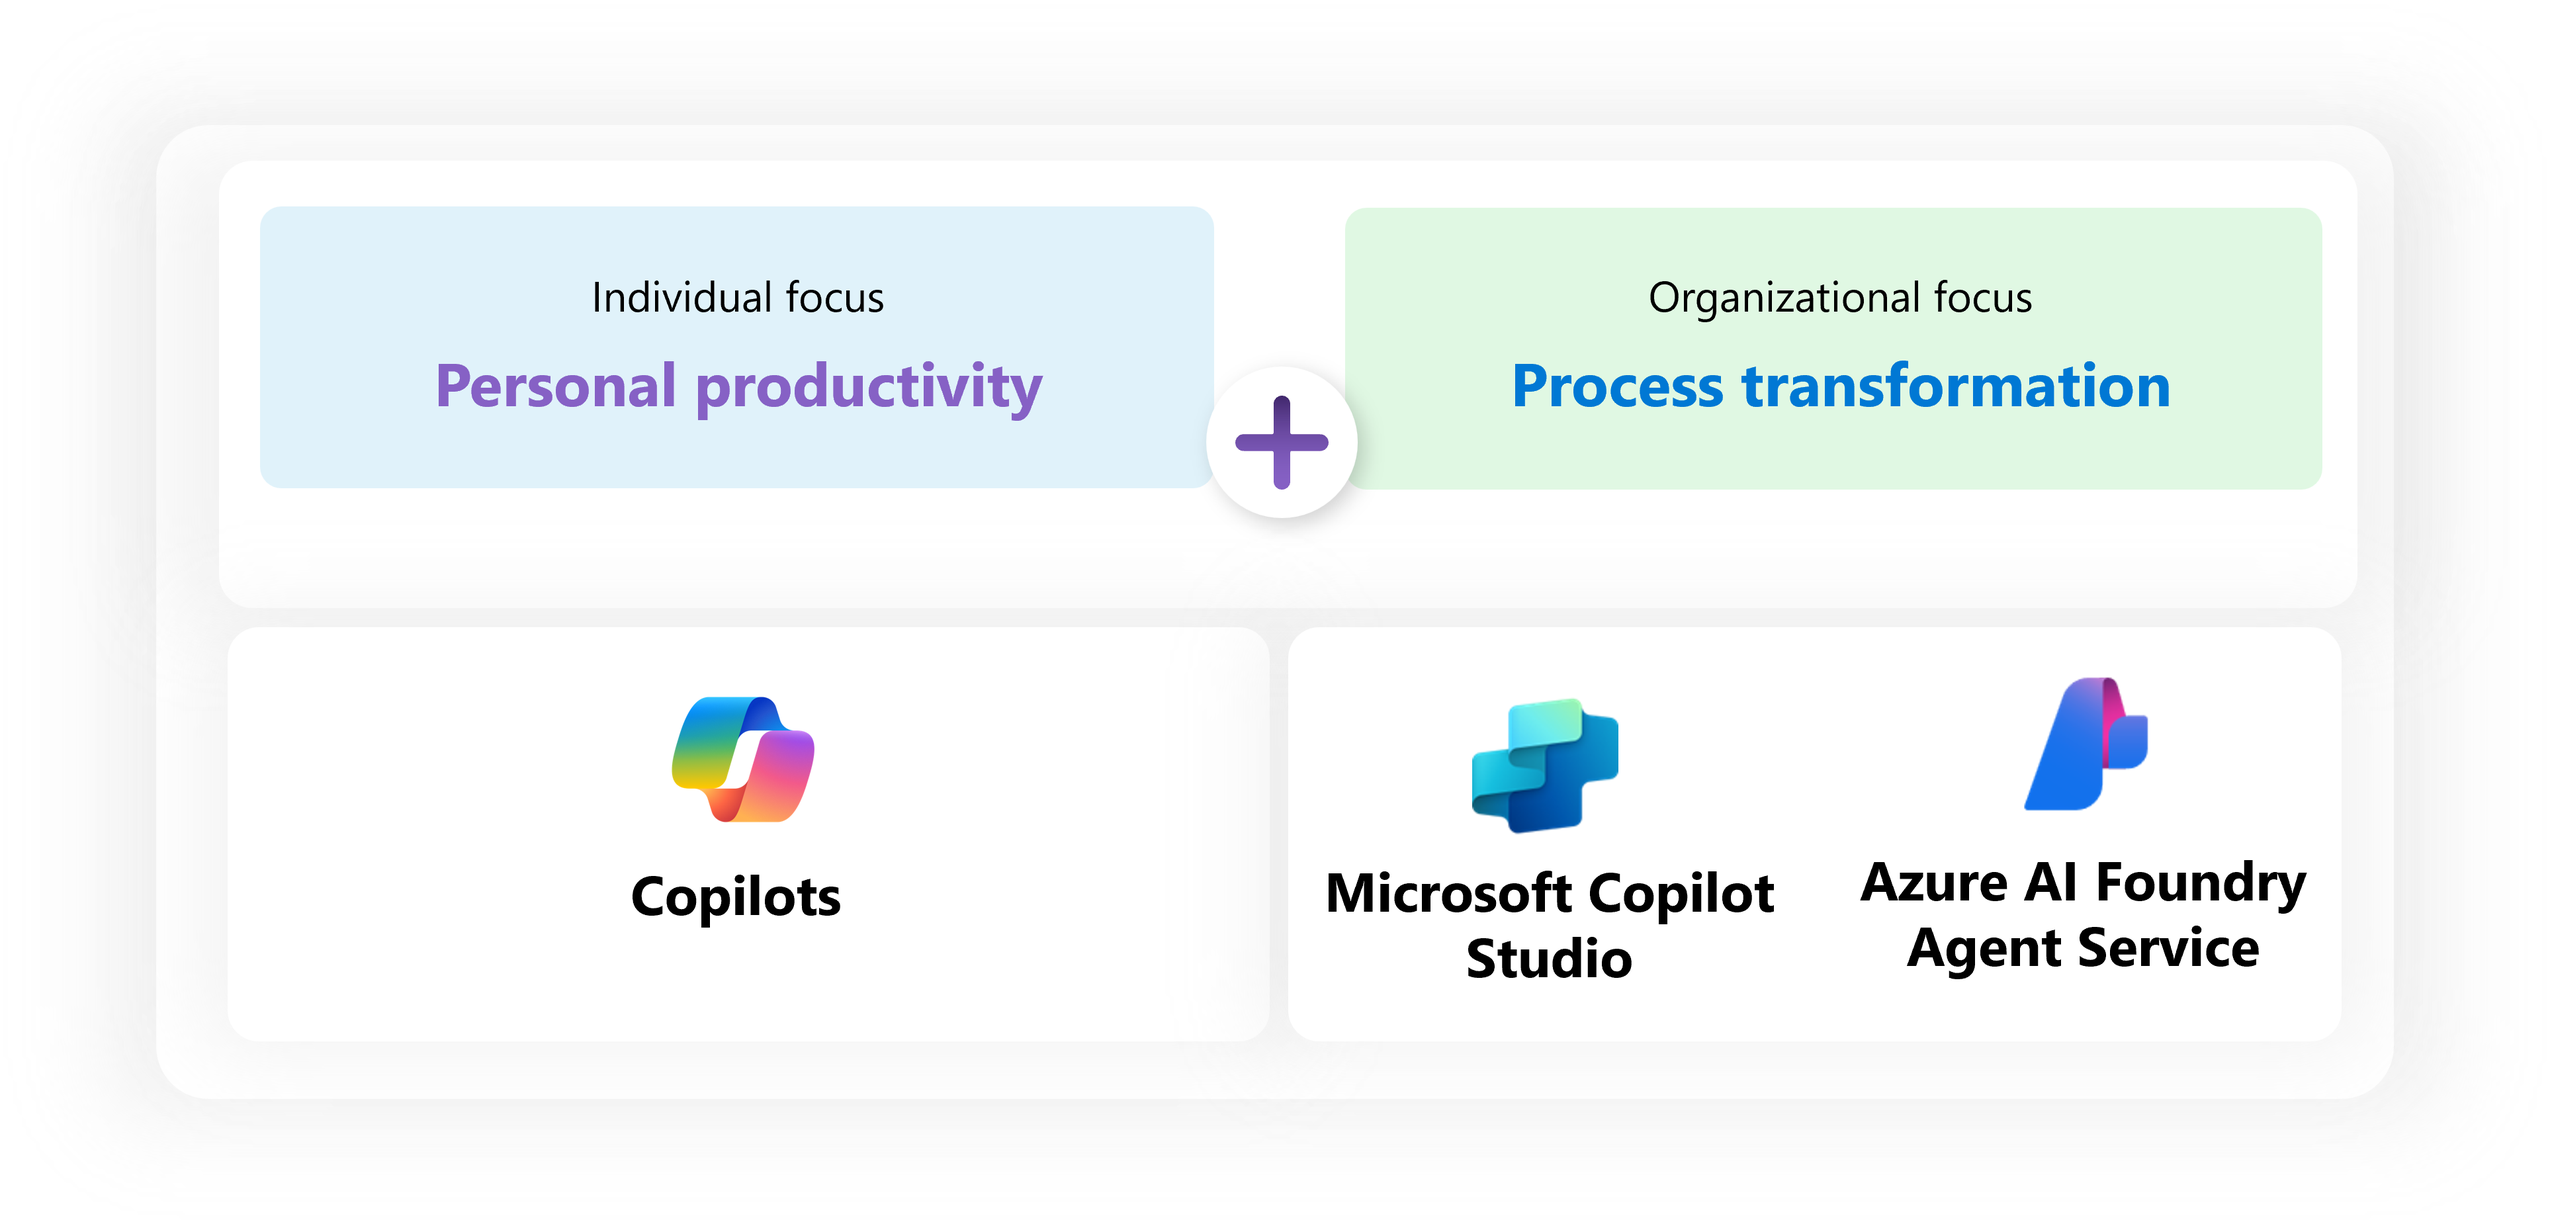
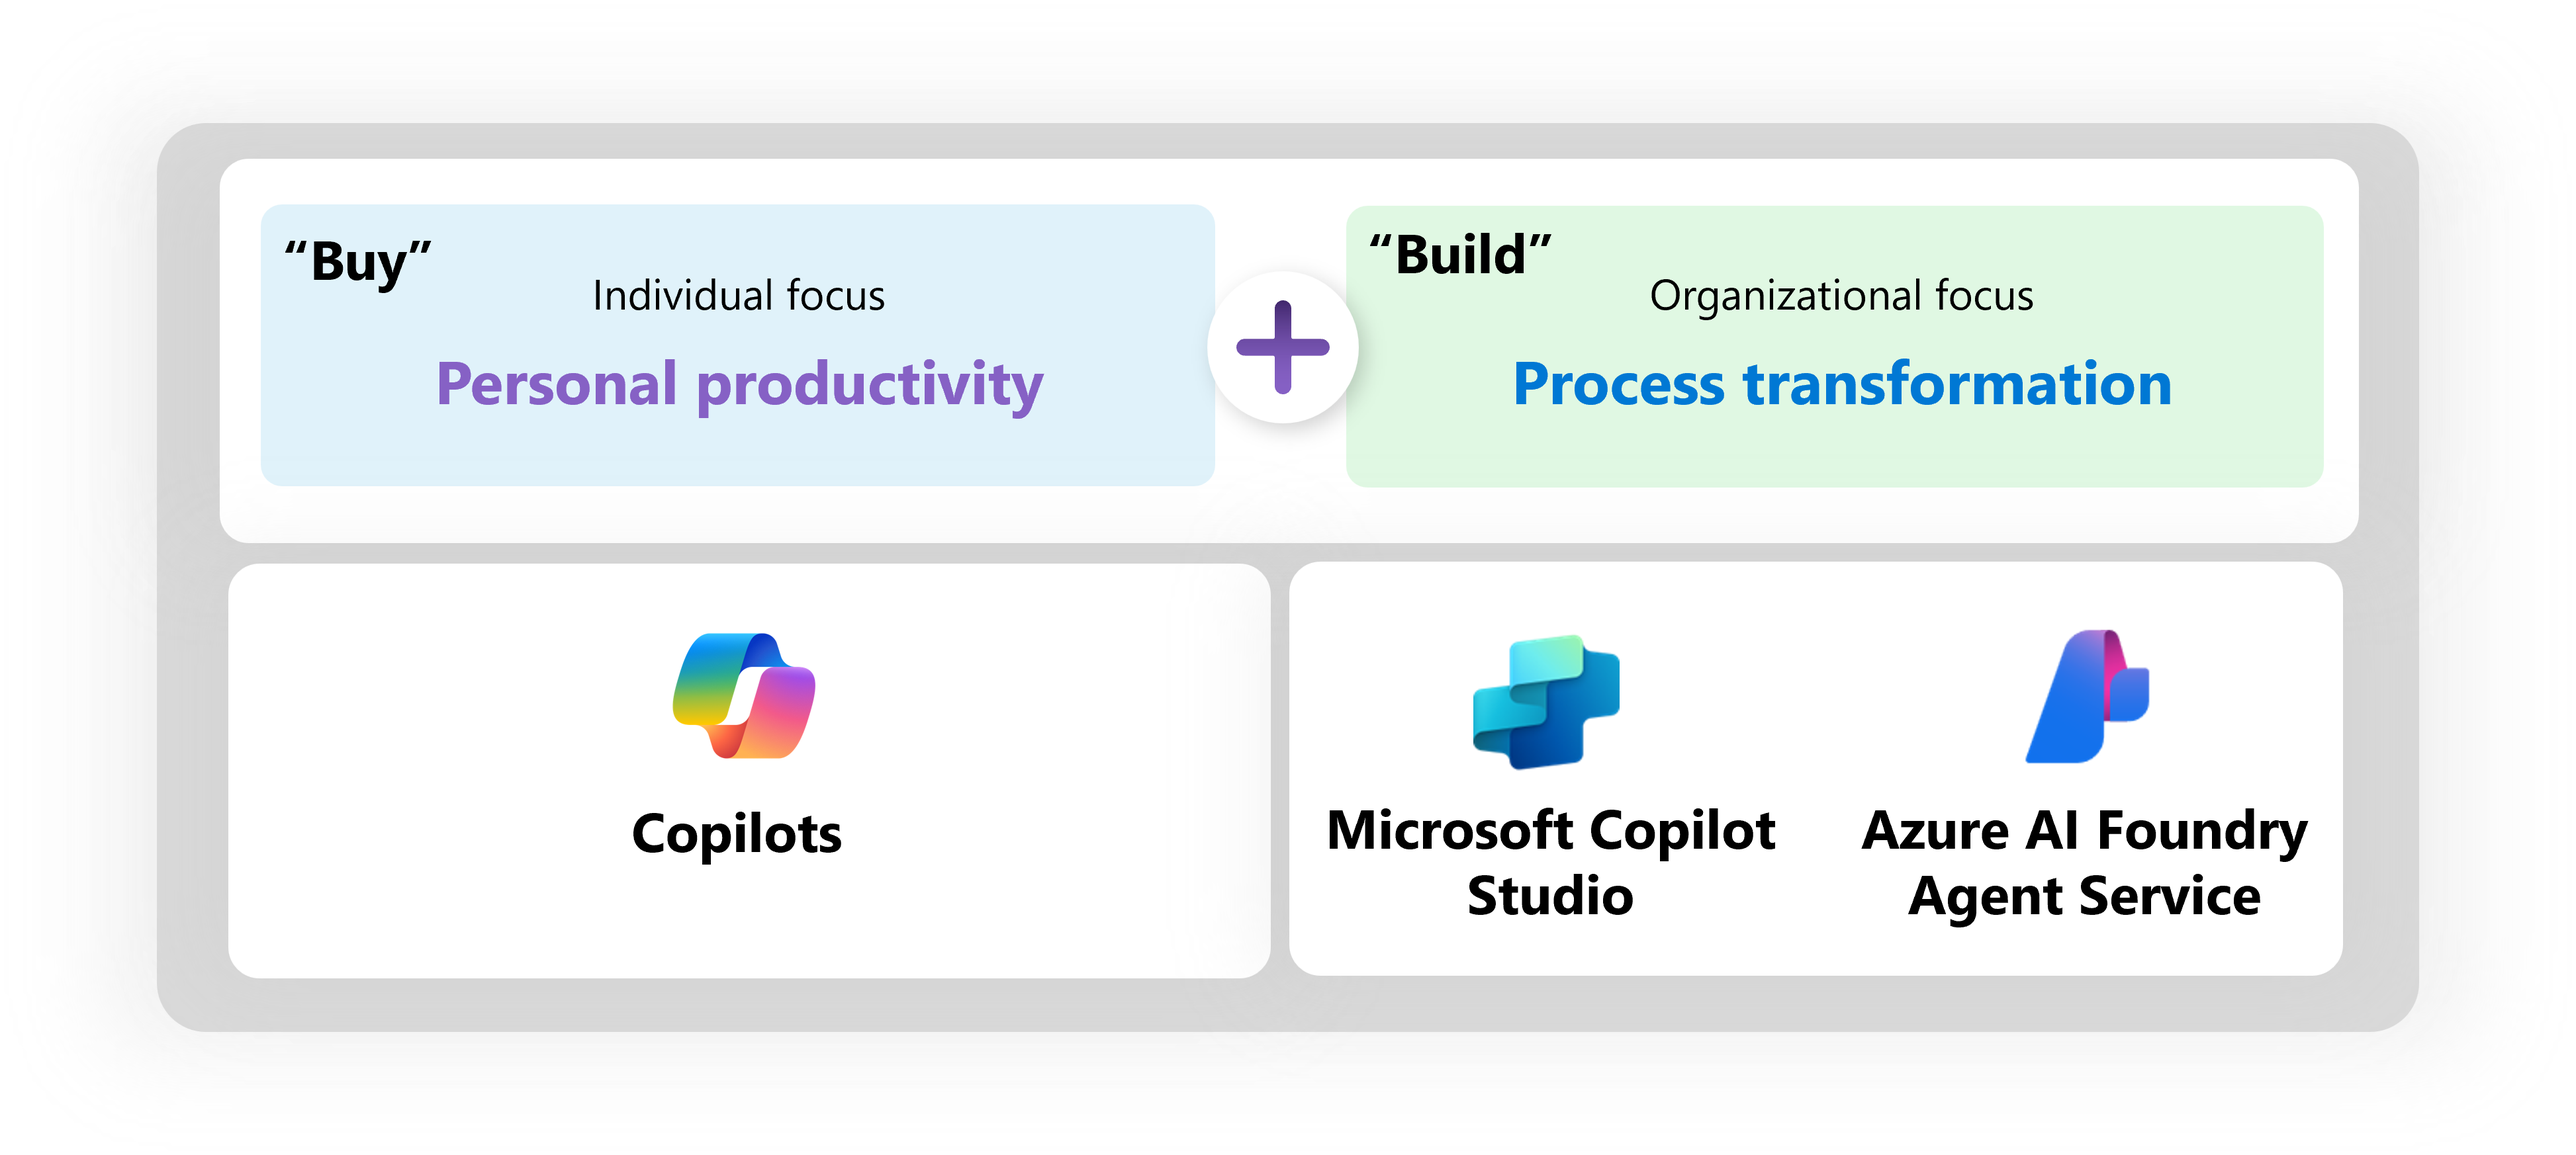
update

diff --git a/docs/ai-agents/technology-strategy.md b/docs/ai-agents/technology-strategy.md
@@ -11,11 +11,17 @@ ms.collection: ce-skilling-ai-copilot
 
 # Technology strategy for AI agents
 
-Once the business needs are defined, establish a clear technology strategy to deliver AI agent solutions. This phase focuses on selecting the appropriate tools and setting a technical roadmap. It guides development effort allocation (buy vs. build).
+After defining business needs, establish a technology strategy that supports AI agent delivery. This phase defines the technical roadmap and selects appropriate tools. It also guides development effort allocation, whether to buy prebuilt solutions or build custom ones. Microsoft offers multiple implementation paths, from ready-made SaaS agents to fully custom development environments. The optimal choice depends on speed, cost, and customization requirements.
 
 :::image type="content" source="./images/technology-options.png" alt-text="Diagram that shows how buy vs. build technology options comparing Microsoft Copilots (buy) vs. Low-code (Microsoft Copilot Studio) and pro-code (Azure AI Foundry) build options." lightbox="./images/technology-options.png" border="false":::
 
-Microsoft provides multiple paths to implement AI agents, ranging from ready-made SaaS solutions to fully custom development. The optimal choice balances speed, cost, and customization:
+Organizations often use all three approaches in parallel to meet distinct needs:
+
+- Use SaaS Copilots to improve general productivity and deliver immediate ROI.
+- Build department-specific agents in Copilot Studio as medium-term initiatives.
+- Launch custom Foundry projects to support mission-critical capabilities that require long-term investment.
+
+Organizations must assign each use case to the appropriate track based on urgency and complexity. This allocation avoids over-engineering simple tasks and prevents under-powering strategic initiatives. Standardize platforms later. Initially, focus on delivering value through flexible execution.
 
 | Solution | Approach | Best for |
 |----------|----------|----------|
@@ -25,37 +31,30 @@ Microsoft provides multiple paths to implement AI agents, ranging from ready-mad
 
 ## Azure AI Foundry
 
-**Pro-code AI Agents (build with PaaS):** For strategic use cases where AI becomes a core business capability, [Azure AI Foundry Agent Service](/azure/ai-foundry/agents/overview) provides the tools to build fully custom agents. This approach gives maximum flexibility. Your workload teams can develop multi-model, multi-agent solutions with custom orchestration and tooling. These agents often require grounding in proprietary data sources, which means teams must prepare infrastructure and integration patterns that support scalable and secure access to internal systems. This path demands more time and technical investment but enables differentiated solutions that drive long-term value. Use the [Azure AI Foundry playground](/azure/ai-foundry/concepts/concept-playgrounds) to explore and prototype before scaling. Follow the [quickstart to create a new agent](/azure/ai-foundry/agents/quickstart)
+**Pro-code AI Agents (build with PaaS):** Use [Azure AI Foundry Agent Service](/azure/ai-foundry/agents/overview) or strategic use cases where AI becomes a core business capability. This path provides maximum flexibility. Workload teams build multi-model, multi-agent solutions with custom orchestration and tooling. These agents often require grounding in proprietary data sources, so teams must prepare infrastructure and integration patterns that support scalable and secure access to internal systems. This approach demands more time and technical investment but enables differentiated solutions that drive long-term value. Use the [Azure AI Foundry playground](/azure/ai-foundry/concepts/concept-playgrounds) to explore and prototype before scaling. Follow the [quickstart to create a new agent](/azure/ai-foundry/agents/quickstart)
 
 ## Microsoft Copilot Studio
 
-**Low-code AI Agents (build SaaS):** WFor scenarios requiring moderate customization, specific processes or integrations, but where you want to deliver quickly, [Microsoft Copilot Studio](/azure/microsoft-copilot-studio/) provides a low-code development environment. It allows IT or power users to build conversational agents with a visual interface and over a thousand pre-built connectors to enterprise systems. This is a good middle path when technical resources are limited or time-to-market is critical. Decision makers should consider if the use case can be met by assembling components in Copilot Studio, which often takes weeks instead of months. A[60-day free trial](/microsoft-copilot-studio/requirements-licensing-subscriptions#copilot-studio-for-microsoft-teams-plans) to validate use cases before committing to production licenses, ensuring you have time to build prototypes and gather stakeholder feedback. Review [access options](/microsoft-copilot-studio/fundamentals-what-is-copilot-studio#access-copilot-studio).
+**Low-code AI Agents (build SaaS):** Use [Microsoft Copilot Studio](/azure/microsoft-copilot-studio/) for scenarios that require moderate customization or specific integrations but need rapid delivery. This low-code environment enables IT or power users to build conversational agents using a visual interface and over a thousand prebuilt connectors to enterprise systems. This path suits teams with limited technical resources or tight timelines. Use the [60-day free trial](/microsoft-copilot-studio/requirements-licensing-subscriptions#copilot-studio-for-microsoft-teams-plans) to validate use cases before committing to production licenses, ensuring you have time to build prototypes and gather stakeholder feedback. Review [access options](/microsoft-copilot-studio/fundamentals-what-is-copilot-studio#access-copilot-studio).
 
 ## Copilots
 
-**Pre-built agents (buy SaaS):** For standard tasks, Copilot agents deliver immediate value with minimal setup. These agents suit personal productivity or routine processes where out-of-the-box capabilities meet the need. The primary decision involves enabling the service and ensuring data access.
-
-Microsoft 365 Copilot includes agents such as Researcher and Analyst to support individual productivity. Microsoft also embeds Copilots across Azure, GitHub, Microsoft Fabric, and Power Platform. Role-based Copilots support functions like security, finance, and sales. These prebuilt agents manage integration internally and typically require only configuration and access permissions. See [Overview of Microsoft Copilots](/azure/cloud-adoption-framework/scenarios/ai/strategy#adopt-microsoft-software-ai-services-saas-for-initial-outcomes). Use the [Agent Success Kit](https://adoption.microsoft.com/ai-agents/success-kit/) to understand how to deploy and manage Copilots.
-
-## Hybrid approach
-
-Organizations often use all three AI agent approaches in parallel to meet distinct needs. For example, enable SaaS Copilots to improve general productivity and deliver immediate ROI. Use Copilot Studio to build department-specific agents as medium-term initiatives. In parallel, initiate a custom Foundry project to support mission-critical capabilities that require long-term investment. Technology leaders must assign each use case to the appropriate track based on urgency and complexity. This approach prevents over-engineering simple tasks and avoids under-powering strategic initiatives. Standardize platforms later. Initially, prioritize value delivery through flexible execution.
+**Pre-built agents (buy SaaS):** Use Copilot agents for standard tasks that require minimal setup. These agents support personal productivity and routine processes where out-of-the-box capabilities meet business needs. The primary decision involves enabling the service and configuring data access.
+Microsoft 365 Copilot includes agents such as Researcher and Analyst. Microsoft also embeds Copilots across Azure, GitHub, Microsoft Fabric, and Power Platform. Role-based Copilots support functions like security, finance, and sales. These agents manage integration internally and typically require only configuration and access permissions. See [Overview of Microsoft Copilots](/azure/cloud-adoption-framework/scenarios/ai/strategy#adopt-microsoft-software-ai-services-saas-for-initial-outcomes). Use the [Agent Success Kit](https://adoption.microsoft.com/ai-agents/success-kit/) to understand how to deploy and manage Copilots.
 
 ## Build prototypes
 
-Before allocating substantial resources to any AI agent solution, whether through Azure AI Foundry, Microsoft Copilot Studio, or prebuilt Copilots, validate the approach through structured experimentation. This step confirms alignment with business objectives, technical feasibility, and team readiness.
+Validate each AI agent approach through structured experimentation before allocating substantial resources. This step confirms alignment with business objectives, technical feasibility, and team readiness.
 
-1. **Run time-boxed experiments.** Direct teams to build short prototypes for each candidate solution. Allocate one to two weeks per option to develop a basic version using different methods. For example, compare a low-code agent built in Copilot Studio with a custom solution using Azure AI Foundry. Evaluate each prototype based on:
+1. **Run time-boxed experiments.** Direct teams to build short prototypes for each candidate solution. Allocate one to two weeks per option. Compare a low-code agent built in Copilot Studio with a custom solution using Azure AI Foundry. Evaluate each prototype based on:
 
     - Development speed and usability
     - Functional coverage and extensibility
     - Integration complexity and technical blockers
 
-    This process identifies the most viable path without committing long-term resources prematurely.
+2. **Define the implementation plan.** Require teams to document and present findings. If a low-code solution meets functional and security requirements, proceed with that option. If not, shift to a pro-code approach or adjust the scope. Ensure stakeholders review pilot outcomes before scaling. This review reduces rework and increases confidence in the selected path.
 
-2. **Define the implementation plan.** Require teams to document and present their findings from each prototype. If a low-code solution satisfies functional and security requirements, proceed with that option. If it does not, shift to a pro-code approach or adjust the scope accordingly. Ensure stakeholders review the pilot outcomes before scaling. This review process reduces rework and increases confidence in the selected path.
-
-3. **Assess single-agent versus multi-agent architecture.** Use the prototype to determine whether the task requires multiple specialized agents. Avoid introducing complexity unless the requirements clearly justify a multi-agent system. Evaluate whether a single agent can meet the business needs efficiently. For deeper guidance, refer to [Single or multi-agent system?](./single-multi-agent-systems.md).
+3. **Assess single-agent versus multi-agent architecture.** Use prototypes to determine whether the task requires multiple specialized agents. Avoid unnecessary complexity. Evaluate whether a single agent meets business needs efficiently. Refer to [Single or multi-agent system?](./single-multi-agent-systems.md).
 
 ## Next step
 
